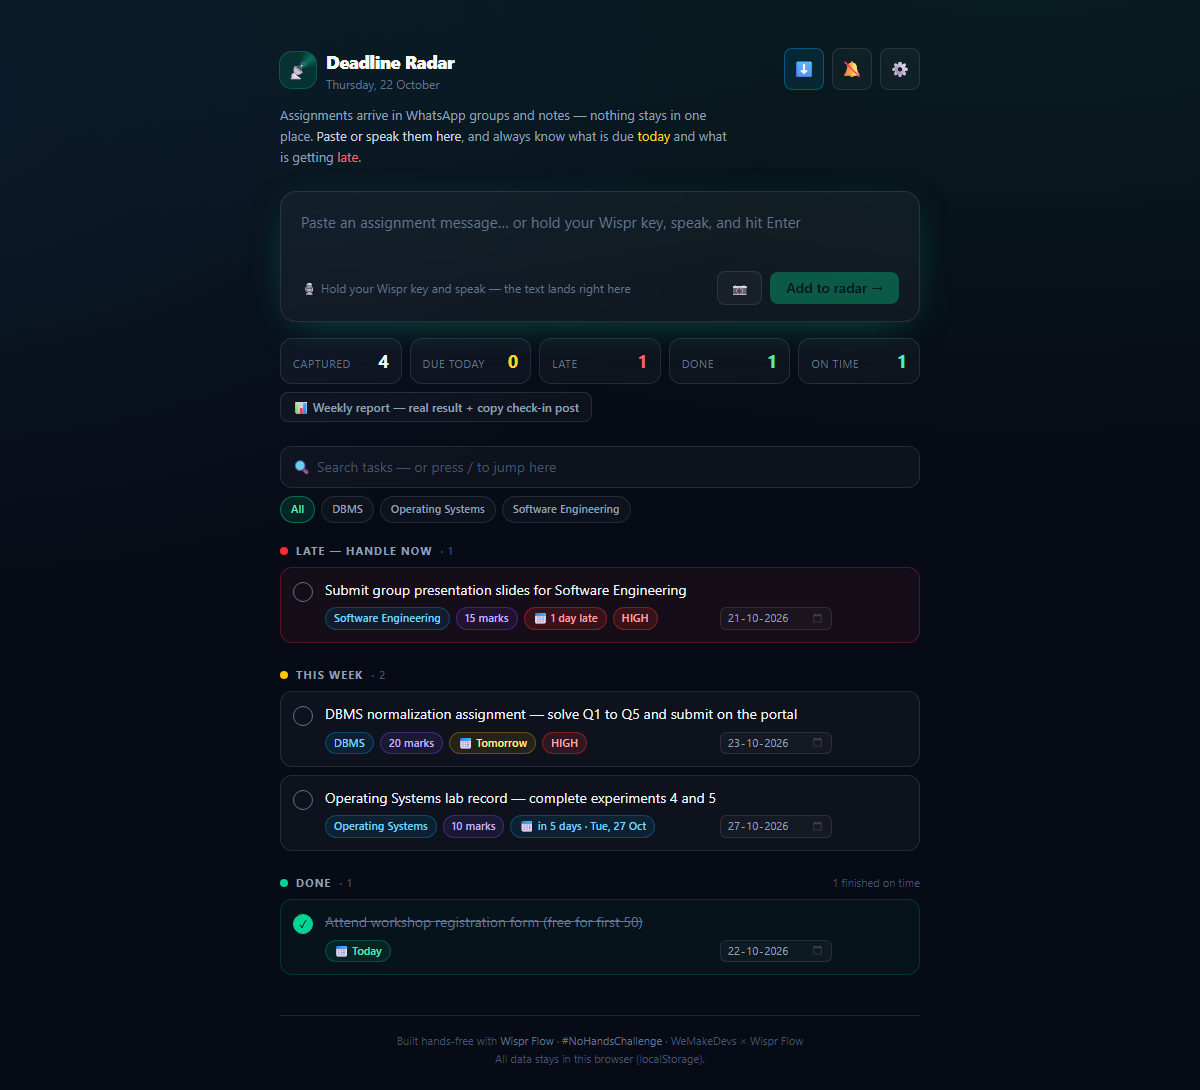
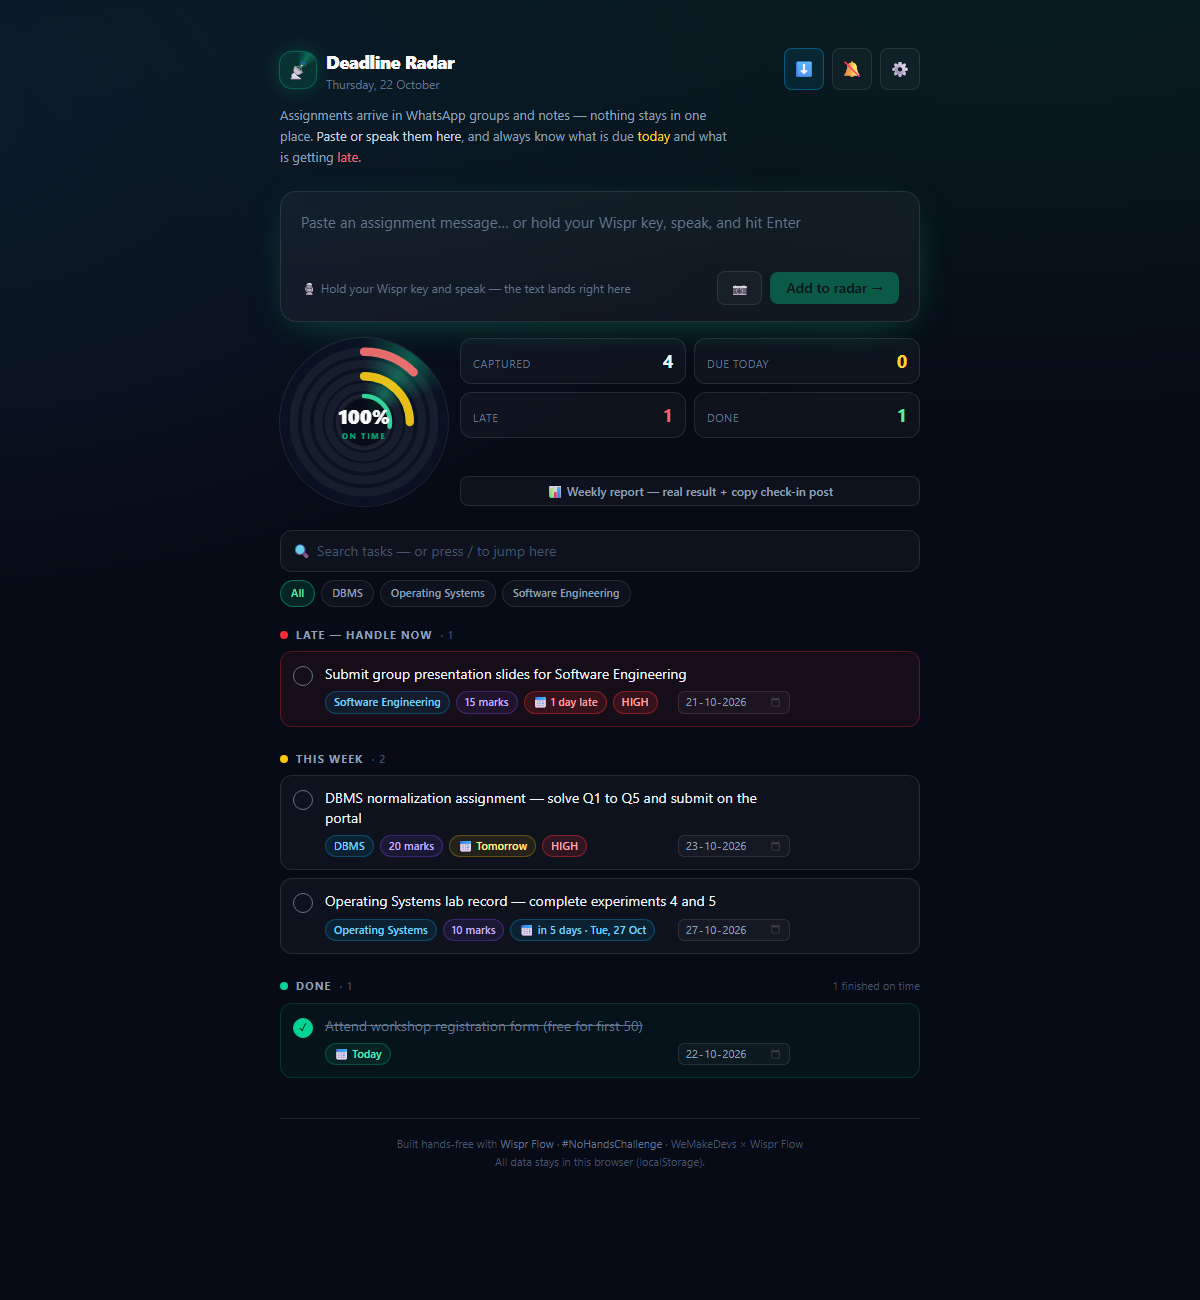
docs: fresh tour.png with radar dial UI, dial beat in demo script

diff --git a/DEMO-SCRIPT.md b/DEMO-SCRIPT.md
@@ -32,10 +32,14 @@ part of the story) and put "Voiceover: Wispr Flow" as a caption.
   tak, 20 marks…` → one structured card with date + marks.)*
 
 ### 1:05–1:30 — What it gives back
-- Screen: sections (Late / Due today / This week), tick a task done, open **Weekly report**.
-- **VO:** *"It sorts by urgency and marks, nags me once a day, and keeps the receipt —
-  deadlines captured, finished, and finished on time."*
-- Show the **On time** counter and Weekly report numbers — this is the "one real result".
+- Screen: the **radar dial** (rings fill by urgency, sweep rotating, on-time % in the centre),
+  then sections (Late / Due today / This week), tick a task done — **confetti bursts** —
+  open **Weekly report**.
+- **VO:** *"The dial is the whole picture at a glance — red means trouble, green centre is
+  your on-time score. It sorts by urgency and marks, nags me once a day, and keeps the
+  receipt — deadlines captured, finished, and finished on time."*
+- Tap a dial ring → it jumps to that section. Show the **On time** ring and Weekly report
+  numbers — this is the "one real result".
 
 ### 1:30–1:50 — The voice story (challenge twist)
 - Screen: Wispr Insights usage card glimpse + a clip of coding with voice (terminal/AI
